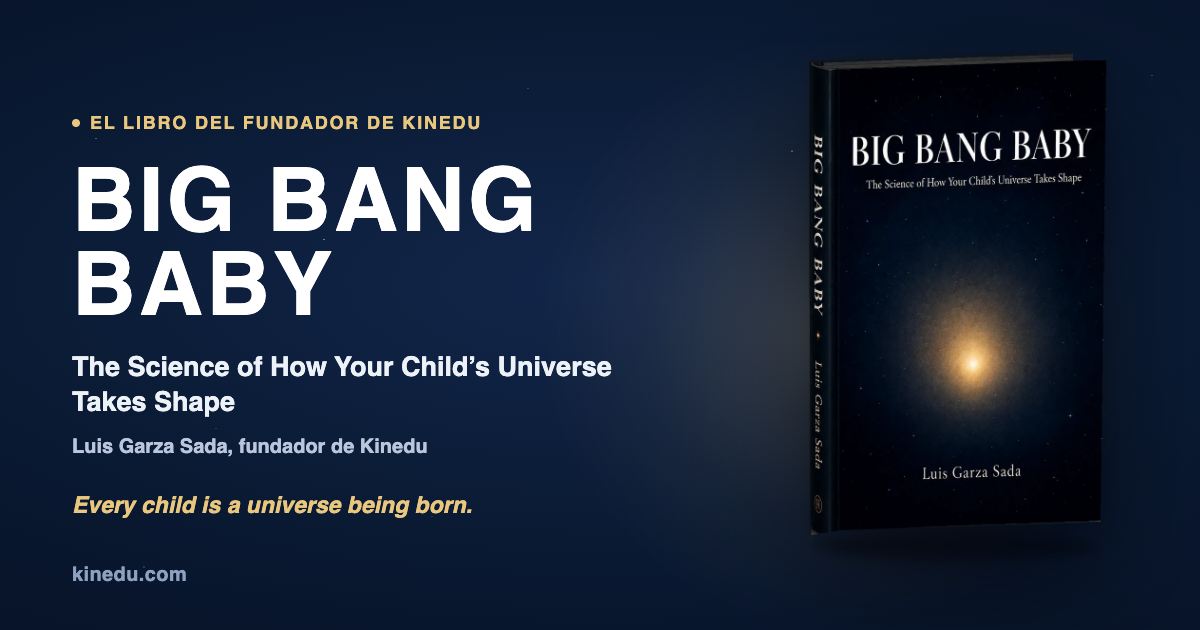
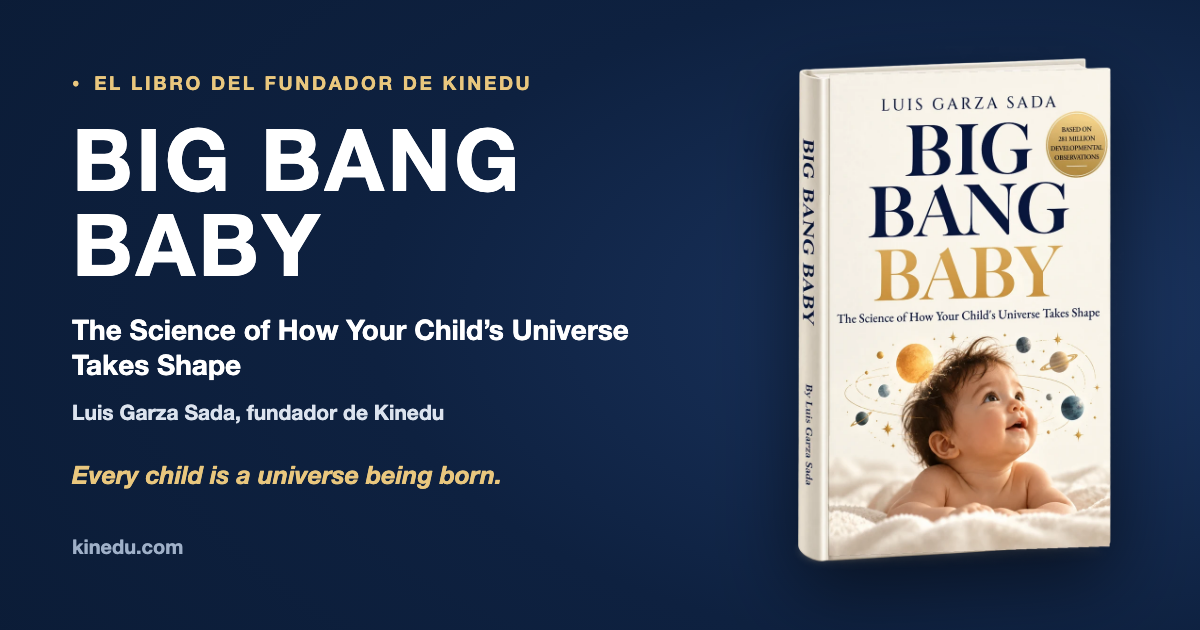
Libro: portada nueva (crema, Opción B) en /book EN/ES/PT y /founder. Archivos -v2 para romper caché (3D grande, 3D chica y plana para el schema), generador scripts/book/build.py apuntando a los nuevos, y las tres imágenes OG regeneradas con la portada nueva.

diff --git a/es/book.html b/es/book.html
@@ -233,7 +233,7 @@ src="https://www.facebook.com/tr?id=2089634224620932&ev=PageView&noscript=1"
   .bk-ixend .bk-ctas{justify-content:center}
 }
 </style>
-<script type="application/ld+json">{"@context": "https://schema.org", "@type": "Book", "name": "Big Bang Baby", "alternateName": "Big Bang Baby: The Science of How Your Child’s Universe Takes Shape", "author": {"@type": "Person", "name": "Luis Garza Sada", "url": "https://www.kinedu.com/founder"}, "publisher": {"@type": "Organization", "name": "Garza Jasso Press"}, "isbn": "979-8-9967408-1-9", "bookFormat": "https://schema.org/EBook", "datePublished": "2026-09-23", "inLanguage": "en", "image": "https://www.kinedu.com/images/book/cover.webp", "url": "https://www.kinedu.com/es/book", "sameAs": ["https://bigbangbaby.net/", "https://www.amazon.com/dp/B0HHL292P6"], "offers": {"@type": "Offer", "price": "9.99", "priceCurrency": "USD", "url": "https://www.amazon.com/dp/B0HHL292P6", "availability": "https://schema.org/PreOrder"}}</script>
+<script type="application/ld+json">{"@context": "https://schema.org", "@type": "Book", "name": "Big Bang Baby", "alternateName": "Big Bang Baby: The Science of How Your Child’s Universe Takes Shape", "author": {"@type": "Person", "name": "Luis Garza Sada", "url": "https://www.kinedu.com/founder"}, "publisher": {"@type": "Organization", "name": "Garza Jasso Press"}, "isbn": "979-8-9967408-1-9", "bookFormat": "https://schema.org/EBook", "datePublished": "2026-09-23", "inLanguage": "en", "image": "https://www.kinedu.com/images/book/cover-v2.webp", "url": "https://www.kinedu.com/es/book", "sameAs": ["https://bigbangbaby.net/", "https://www.amazon.com/dp/B0HHL292P6"], "offers": {"@type": "Offer", "price": "9.99", "priceCurrency": "USD", "url": "https://www.amazon.com/dp/B0HHL292P6", "availability": "https://schema.org/PreOrder"}}</script>
 </head>
 <body>
 <nav class="navbar" id="navbar">
@@ -296,7 +296,7 @@ src="https://www.facebook.com/tr?id=2089634224620932&ev=PageView&noscript=1"
       </div>
     </div>
     <div class="bk-cover">
-      <img src="/images/book/cover-3d.webp" srcset="/images/book/cover-3d-sm.webp 420w, /images/book/cover-3d.webp 724w" sizes="(max-width: 900px) 200px, 320px" width="724" height="1179" alt="Big Bang Baby, el libro de Luis Garza Sada" fetchpriority="high">
+      <img src="/images/book/cover-3d-v2.webp" srcset="/images/book/cover-3d-sm-v2.webp 420w, /images/book/cover-3d-v2.webp 724w" sizes="(max-width: 900px) 200px, 320px" width="724" height="1142" alt="Big Bang Baby, el libro de Luis Garza Sada" fetchpriority="high">
     </div>
   </div>
   </div>
@@ -372,7 +372,7 @@ src="https://www.facebook.com/tr?id=2089634224620932&ev=PageView&noscript=1"
   </div>
   <div class="bk-wrap">
     <div class="bk-get">
-      <img src="/images/book/cover-3d-sm.webp" width="420" height="684" alt="" loading="lazy">
+      <img src="/images/book/cover-3d-sm-v2.webp" width="420" height="663" alt="" loading="lazy">
       <div>
         <h2>Consigue tu ejemplar de Big Bang Baby.</h2>
         <ul class="dt"><li>Edición Kindle, 9.99 USD</li><li>En inglés</li><li>23 de septiembre de 2026</li><li>Pasta blanda próximamente</li></ul>

diff --git a/pt/book.html b/pt/book.html
@@ -233,7 +233,7 @@ src="https://www.facebook.com/tr?id=2089634224620932&ev=PageView&noscript=1"
   .bk-ixend .bk-ctas{justify-content:center}
 }
 </style>
-<script type="application/ld+json">{"@context": "https://schema.org", "@type": "Book", "name": "Big Bang Baby", "alternateName": "Big Bang Baby: The Science of How Your Child’s Universe Takes Shape", "author": {"@type": "Person", "name": "Luis Garza Sada", "url": "https://www.kinedu.com/founder"}, "publisher": {"@type": "Organization", "name": "Garza Jasso Press"}, "isbn": "979-8-9967408-1-9", "bookFormat": "https://schema.org/EBook", "datePublished": "2026-09-23", "inLanguage": "en", "image": "https://www.kinedu.com/images/book/cover.webp", "url": "https://www.kinedu.com/pt/book", "sameAs": ["https://bigbangbaby.net/", "https://www.amazon.com/dp/B0HHL292P6"], "offers": {"@type": "Offer", "price": "9.99", "priceCurrency": "USD", "url": "https://www.amazon.com/dp/B0HHL292P6", "availability": "https://schema.org/PreOrder"}}</script>
+<script type="application/ld+json">{"@context": "https://schema.org", "@type": "Book", "name": "Big Bang Baby", "alternateName": "Big Bang Baby: The Science of How Your Child’s Universe Takes Shape", "author": {"@type": "Person", "name": "Luis Garza Sada", "url": "https://www.kinedu.com/founder"}, "publisher": {"@type": "Organization", "name": "Garza Jasso Press"}, "isbn": "979-8-9967408-1-9", "bookFormat": "https://schema.org/EBook", "datePublished": "2026-09-23", "inLanguage": "en", "image": "https://www.kinedu.com/images/book/cover-v2.webp", "url": "https://www.kinedu.com/pt/book", "sameAs": ["https://bigbangbaby.net/", "https://www.amazon.com/dp/B0HHL292P6"], "offers": {"@type": "Offer", "price": "9.99", "priceCurrency": "USD", "url": "https://www.amazon.com/dp/B0HHL292P6", "availability": "https://schema.org/PreOrder"}}</script>
 </head>
 <body>
 <nav class="navbar" id="navbar">
@@ -296,7 +296,7 @@ src="https://www.facebook.com/tr?id=2089634224620932&ev=PageView&noscript=1"
       </div>
     </div>
     <div class="bk-cover">
-      <img src="/images/book/cover-3d.webp" srcset="/images/book/cover-3d-sm.webp 420w, /images/book/cover-3d.webp 724w" sizes="(max-width: 900px) 200px, 320px" width="724" height="1179" alt="Big Bang Baby, o livro de Luis Garza Sada" fetchpriority="high">
+      <img src="/images/book/cover-3d-v2.webp" srcset="/images/book/cover-3d-sm-v2.webp 420w, /images/book/cover-3d-v2.webp 724w" sizes="(max-width: 900px) 200px, 320px" width="724" height="1142" alt="Big Bang Baby, o livro de Luis Garza Sada" fetchpriority="high">
     </div>
   </div>
   </div>
@@ -372,7 +372,7 @@ src="https://www.facebook.com/tr?id=2089634224620932&ev=PageView&noscript=1"
   </div>
   <div class="bk-wrap">
     <div class="bk-get">
-      <img src="/images/book/cover-3d-sm.webp" width="420" height="684" alt="" loading="lazy">
+      <img src="/images/book/cover-3d-sm-v2.webp" width="420" height="663" alt="" loading="lazy">
       <div>
         <h2>Garanta seu exemplar de Big Bang Baby.</h2>
         <ul class="dt"><li>Edição Kindle, US$ 9,99</li><li>Em inglês</li><li>23 de setembro de 2026</li><li>Brochura em breve</li></ul>

diff --git a/book.html b/book.html
@@ -233,7 +233,7 @@ src="https://www.facebook.com/tr?id=2089634224620932&ev=PageView&noscript=1"
   .bk-ixend .bk-ctas{justify-content:center}
 }
 </style>
-<script type="application/ld+json">{"@context": "https://schema.org", "@type": "Book", "name": "Big Bang Baby", "alternateName": "Big Bang Baby: The Science of How Your Child’s Universe Takes Shape", "author": {"@type": "Person", "name": "Luis Garza Sada", "url": "https://www.kinedu.com/founder"}, "publisher": {"@type": "Organization", "name": "Garza Jasso Press"}, "isbn": "979-8-9967408-1-9", "bookFormat": "https://schema.org/EBook", "datePublished": "2026-09-23", "inLanguage": "en", "image": "https://www.kinedu.com/images/book/cover.webp", "url": "https://www.kinedu.com/book", "sameAs": ["https://bigbangbaby.net/", "https://www.amazon.com/dp/B0HHL292P6"], "offers": {"@type": "Offer", "price": "9.99", "priceCurrency": "USD", "url": "https://www.amazon.com/dp/B0HHL292P6", "availability": "https://schema.org/PreOrder"}}</script>
+<script type="application/ld+json">{"@context": "https://schema.org", "@type": "Book", "name": "Big Bang Baby", "alternateName": "Big Bang Baby: The Science of How Your Child’s Universe Takes Shape", "author": {"@type": "Person", "name": "Luis Garza Sada", "url": "https://www.kinedu.com/founder"}, "publisher": {"@type": "Organization", "name": "Garza Jasso Press"}, "isbn": "979-8-9967408-1-9", "bookFormat": "https://schema.org/EBook", "datePublished": "2026-09-23", "inLanguage": "en", "image": "https://www.kinedu.com/images/book/cover-v2.webp", "url": "https://www.kinedu.com/book", "sameAs": ["https://bigbangbaby.net/", "https://www.amazon.com/dp/B0HHL292P6"], "offers": {"@type": "Offer", "price": "9.99", "priceCurrency": "USD", "url": "https://www.amazon.com/dp/B0HHL292P6", "availability": "https://schema.org/PreOrder"}}</script>
 </head>
 <body>
 <nav class="navbar" id="navbar">
@@ -296,7 +296,7 @@ src="https://www.facebook.com/tr?id=2089634224620932&ev=PageView&noscript=1"
       </div>
     </div>
     <div class="bk-cover">
-      <img src="/images/book/cover-3d.webp" srcset="/images/book/cover-3d-sm.webp 420w, /images/book/cover-3d.webp 724w" sizes="(max-width: 900px) 200px, 320px" width="724" height="1179" alt="Big Bang Baby, the book by Luis Garza Sada" fetchpriority="high">
+      <img src="/images/book/cover-3d-v2.webp" srcset="/images/book/cover-3d-sm-v2.webp 420w, /images/book/cover-3d-v2.webp 724w" sizes="(max-width: 900px) 200px, 320px" width="724" height="1142" alt="Big Bang Baby, the book by Luis Garza Sada" fetchpriority="high">
     </div>
   </div>
   </div>
@@ -371,7 +371,7 @@ src="https://www.facebook.com/tr?id=2089634224620932&ev=PageView&noscript=1"
   </div>
   <div class="bk-wrap">
     <div class="bk-get">
-      <img src="/images/book/cover-3d-sm.webp" width="420" height="684" alt="" loading="lazy">
+      <img src="/images/book/cover-3d-sm-v2.webp" width="420" height="663" alt="" loading="lazy">
       <div>
         <h2>Get your copy of Big Bang Baby.</h2>
         <ul class="dt"><li>Kindle edition, $9.99 USD</li><li>In English</li><li>23 September 2026</li><li>Paperback coming soon</li></ul>

diff --git a/founder.html b/founder.html
@@ -212,7 +212,7 @@ src="https://www.facebook.com/tr?id=2089634224620932&ev=PageView&noscript=1"
     <section class="founder-book-section">
         <div class="section-wrap">
             <div class="founder-book">
-                <a href="https://bigbangbaby.net/" target="_blank" rel="noopener"><img src="/images/book/cover-3d-sm.webp" alt="Big Bang Baby, by Luis Garza Sada" loading="lazy"></a>
+                <a href="https://bigbangbaby.net/" target="_blank" rel="noopener"><img src="/images/book/cover-3d-sm-v2.webp" alt="Big Bang Baby, by Luis Garza Sada" loading="lazy"></a>
                 <div>
                     <span class="founder-book-eyebrow" data-i18n="founder.book.eyebrow">From the founder</span>
                     <p class="founder-book-title" data-i18n="founder.book.title" data-i18n-html><a href="https://bigbangbaby.net/" target="_blank" rel="noopener">Big Bang Baby</a> (2026)</p>

diff --git a/scripts/book/build.py b/scripts/book/build.py
@@ -478,7 +478,7 @@ def book_ld(url):
             "author": {"@type": "Person", "name": "Luis Garza Sada", "url": SITE + "/founder"},
             "publisher": {"@type": "Organization", "name": "Garza Jasso Press"},
             "isbn": "979-8-9967408-1-9", "bookFormat": "https://schema.org/EBook", "datePublished": "2026-09-23", "inLanguage": "en",
-            "image": SITE + "/images/book/cover.webp", "url": url, "sameAs": ["https://bigbangbaby.net/", AMAZON],
+            "image": SITE + "/images/book/cover-v2.webp", "url": url, "sameAs": ["https://bigbangbaby.net/", AMAZON],
             "offers": {"@type": "Offer", "price": "9.99", "priceCurrency": "USD", "url": AMAZON, "availability": "https://schema.org/PreOrder"}}
 
 def page_html(lang, head_inner, body_inner):
@@ -531,7 +531,7 @@ def build_landing(lang):
       </div>
     </div>
     <div class="bk-cover">
-      <img src="/images/book/cover-3d.webp" srcset="/images/book/cover-3d-sm.webp 420w, /images/book/cover-3d.webp 724w" sizes="(max-width: 900px) 200px, 320px" width="724" height="1179" alt="{E(c["cover_alt"])}" fetchpriority="high">
+      <img src="/images/book/cover-3d-v2.webp" srcset="/images/book/cover-3d-sm-v2.webp 420w, /images/book/cover-3d-v2.webp 724w" sizes="(max-width: 900px) 200px, 320px" width="724" height="1142" alt="{E(c["cover_alt"])}" fetchpriority="high">
     </div>
   </div>
   </div>
@@ -606,7 +606,7 @@ def build_landing(lang):
   </div>
   <div class="bk-wrap">
     <div class="bk-get">
-      <img src="/images/book/cover-3d-sm.webp" width="420" height="684" alt="" loading="lazy">
+      <img src="/images/book/cover-3d-sm-v2.webp" width="420" height="663" alt="" loading="lazy">
       <div>
         <h2>{E(c["get_h2"])}</h2>
         <ul class="dt">{dts}</ul>
@@ -642,7 +642,7 @@ def build_intro(lang):
 {intro}
   </article>
   <aside class="bk-ixend bk-navy">
-    <img src="/images/book/cover-3d-sm.webp" width="96" height="156" alt="" loading="lazy">
+    <img src="/images/book/cover-3d-sm-v2.webp" width="96" height="152" alt="" loading="lazy">
     <div class="t">
       <p class="h">{E(c["ix_end_h"])}</p>
       <p class="p">{E(c["ix_end_p"])}</p>
